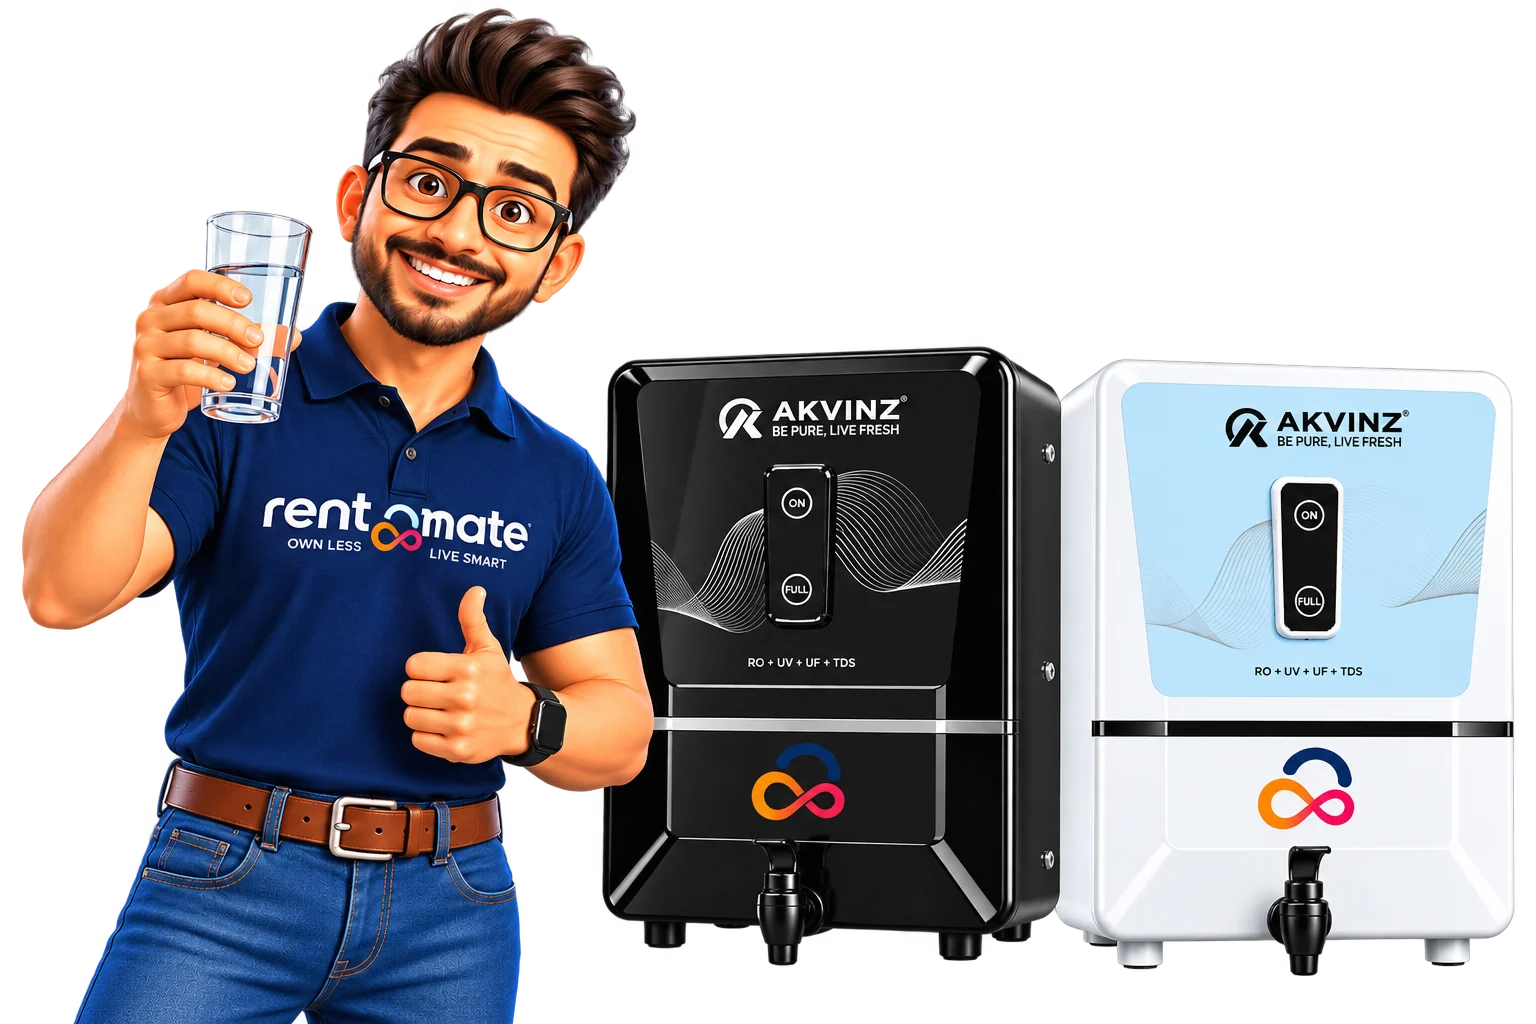
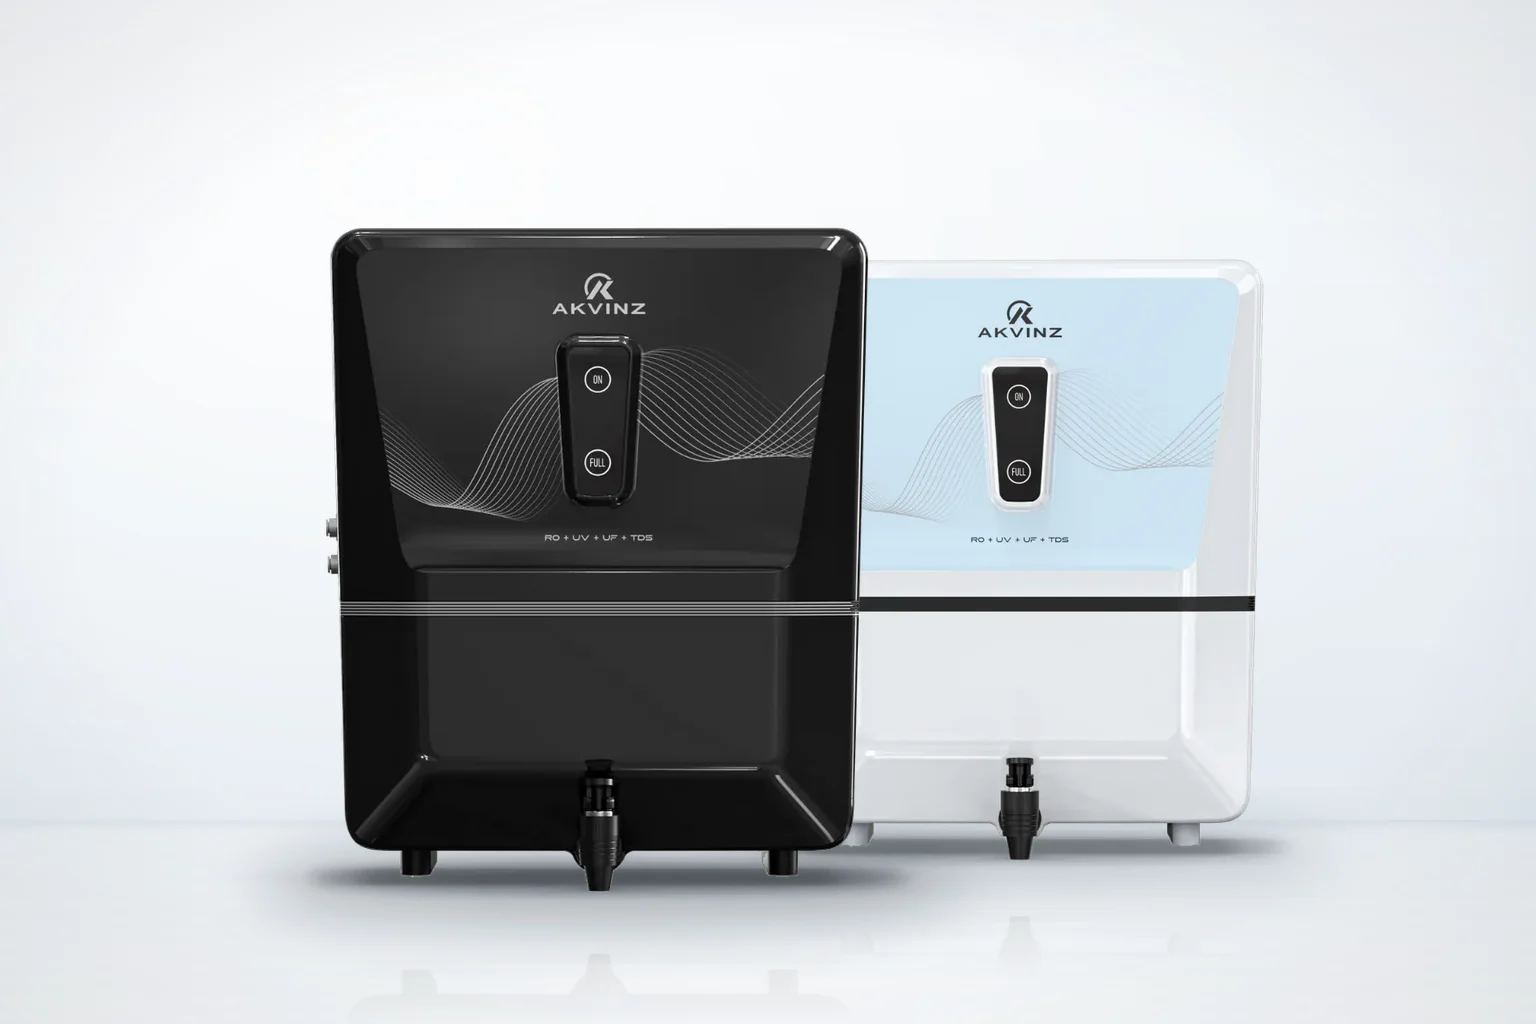
hero section

diff --git a/components/admin/HeroEditor.tsx b/components/admin/HeroEditor.tsx
@@ -55,7 +55,7 @@ export function HeroEditor({ initial }: { initial: HeroContent }) {
         <h2 className="panel-title">Carousel images</h2>
         <p className="-mt-2 mb-4 text-sm text-slate-500">
           Shown on the right of the hero, changing every 5 seconds. Use 3:2 landscape images (at least 1500 × 1000 px); edges are
-          cropped to fit. Empty slots are skipped, and with no images the default Rent O&apos; Mate ambassador image is shown.
+          cropped to fit. Empty slots are skipped, and with no images the default product image (black and white Ultron+) is shown.
         </p>
         <div className="grid grid-cols-1 gap-6 lg:grid-cols-3">
           {hero.slides.map((slide, index) => (

diff --git a/lib/hero.ts b/lib/hero.ts
@@ -11,7 +11,7 @@ export type HeroContent = {
 export const HERO_SLIDE_COUNT = 3;
 
 /** Alt text used when the admin leaves a slide's description blank. */
-export const DEFAULT_SLIDE_ALT = "Rent O' Mate ambassador with Akvinz RO water purifiers in black and white, available on rent";
+export const DEFAULT_SLIDE_ALT = "Akvinz Ultron+ RO water purifiers in Midnight Black and Pearl White, available on rent from Rent O' Mate";
 
 /** Shown when no carousel images are uploaded. */
 export const DEFAULT_SLIDE: HeroSlide = { image: "/images/hero/rentomate-hero.webp", alt: DEFAULT_SLIDE_ALT };

diff --git a/components/HeroSection.tsx b/components/HeroSection.tsx
@@ -13,7 +13,7 @@ import { useSiteActions } from "@/components/SiteShell";
 
 // Two-column hero: headline, benefits and CTAs on the left; the hero image on the right.
 // The right side rotates through the carousel images set in the admin panel (Homepage hero),
-// and shows the Rent O' Mate ambassador image when none are uploaded.
+// and shows the default product image (black and white Ultron+) when none are uploaded.
 
 const USPS: { label: string; icon: LucideIcon }[] = [
   { label: "Zero installation cost", icon: BadgeIndianRupee },
